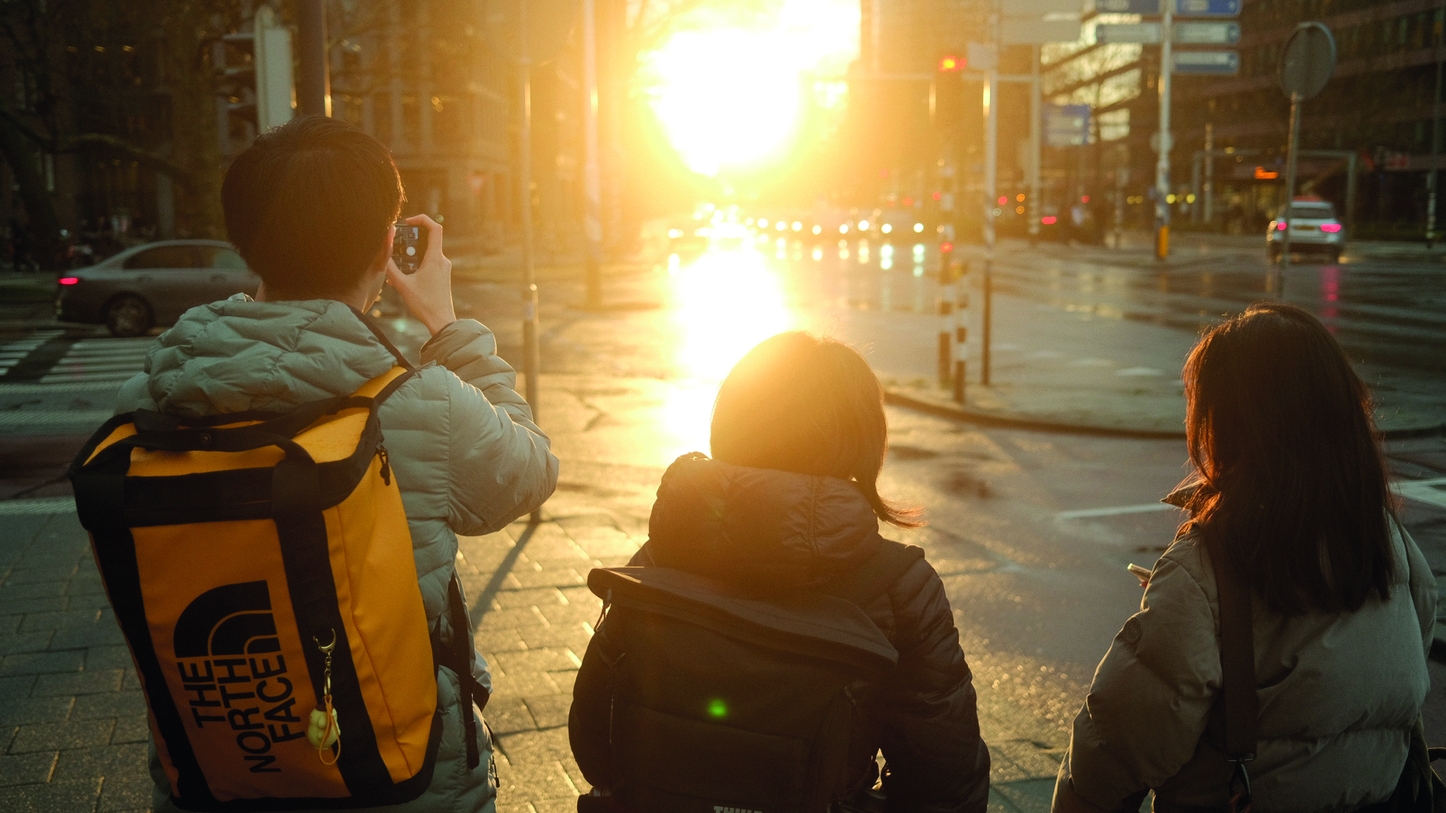
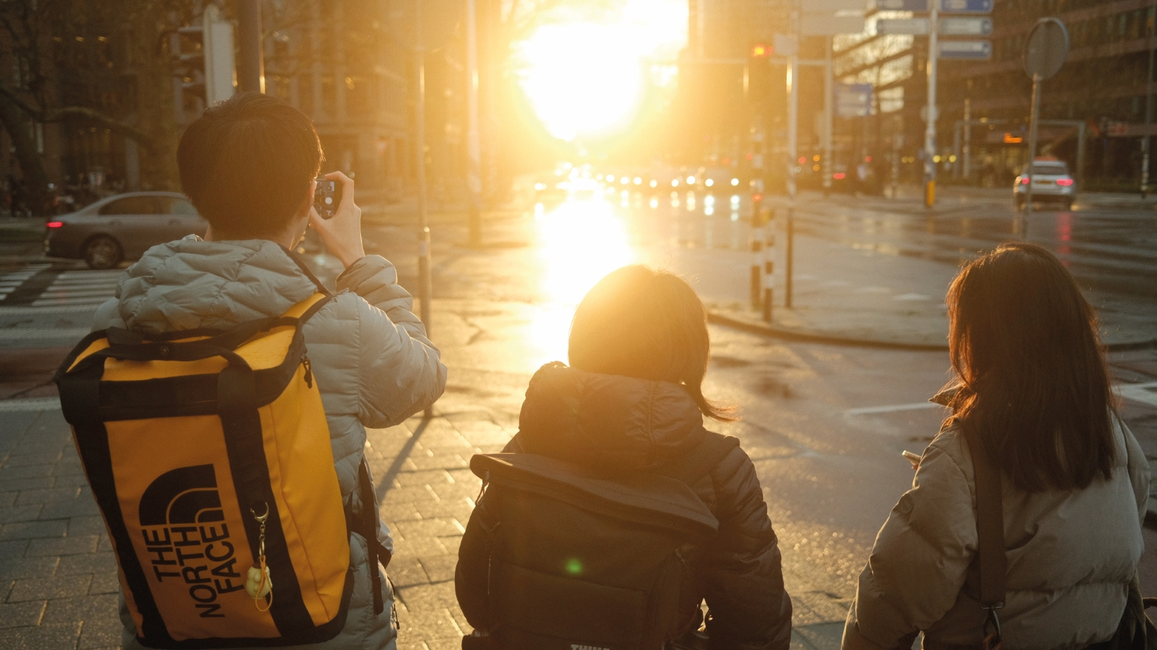
smaller file size for home and direction image

diff --git a/event.html b/event.html
@@ -136,19 +136,25 @@
             </div>
             <div class="flex flex-col gap-12 md:gap-8 xl:gap-12 md:flex-row w-full mx-auto py-4 max-w-7xl fade-in mb-8">
                 <div class="bus-stop flex-1 md:w-[28%] flex flex-col">
-                    <div class="h-auto w-auto bg-blue aspect-1/1 mb-8"></div>
+                    <div class="h-auto w-auto bg-blue aspect-1/1 mb-8">
+                        <img src="./assets/clb.jpg" alt="bus stop 1" class="w-full h-full object-cover">
+                    </div>
                     <p class="text-xl/6 mb-4 lg:text-2xl/6">Ctrl Lib (16181)</p>
                     <p class="text-md/2 mb-4 font-secondary font-medium md:font-light lg:text-lg/8">Buses 95, 151, D1, A1, K, BTC</p> 
                     <p class="text-md/2 font-secondary font-medium md:font-light lg:text-lg/8">Take a walk down the slope and cross the street to SDE4. Walk up the stairs on the left to enter the building.</p> 
                 </div>
                 <div class="bus-stop flex-1 md:w-[28%]">
-                    <div class="h-auto w-auto bg-blue aspect-1/1 mb-8"></div>
+                    <div class="h-auto w-auto bg-blue aspect-1/1 mb-8">
+                        <img src="./assets/aft_archi_drive.png" alt="bus stop 2" class="w-full h-full object-cover">
+                    </div>
                     <p class="text-xl/6 mb-4 lg:text-2xl/6">Aft Architecture Dr (16199)</p>
                     <p class="text-md/2 mb-4 font-secondary font-medium md:font-light lg:text-lg/8">Buses 95, 96, 151</p> 
                     <p class="text-md/2 font-secondary font-medium md:font-light lg:text-lg/8">Take a short walk down the slope to SDE 4. Walk up the stairs to the left to enter the building.</p>
                 </div>
                 <div class="bus-stop flex-1 md:w-[28%]">
-                    <div class="h-auto w-auto bg-blue aspect-1/1 mb-8"></div>
+                    <div class="h-auto w-auto bg-blue aspect-1/1 mb-8">
+                        <img src="./assets/sde3.png" alt="bus stop 3" class="w-full h-full object-cover">
+                    </div>
                     <p class="text-xl/6 mb-4 lg:text-2xl/6">SDE3 (16149)</p>
                     <p class="text-md/2 mb-4 font-secondary font-medium md:font-light lg:text-lg/8">Buses 33, 96, 183, 188, E</p> 
                     <p class="text-md/2 font-secondary font-medium md:font-light lg:text-lg/8">Turn right and walk to the end of the carpark and enter SDE4.</p>

diff --git a/src/data.js b/src/data.js
@@ -914,7 +914,7 @@ const DESIGNER_DATA = [
         "Cluster": "CI",
         "Supervisor": "Hans Tan",
         "MainPic": "./assets/projects/temp-Imagex1m-Rx-W.avif",
-        "Header_1": "What is the future of discovery? \n\n",
+        "Header_1": "What is the future of discovery?",
         "Description_1": "eavesolutions is a speculative brand that reimagines music discovery in a world shaped by personalization and algorithmic recommendations. Each product invites its user to discover songs by exploring the physical world, through imagery, auditory and spatial perception. </p><br><p>Leveraging on the algorithms that already exists, VIS—10M, AUD—24HR, and SPC—10KM re-introduces discovery by turning users into an algorithmic voyeur in the physical world. By integrating current technology with the organic human experience, this project is a reflection of our evolving relationship with technology, probing us to confront our own relationship with discovery, choice, and control.</p><br><p>Through the medium of 3 commercials, this project offers an alternate reality in response to the rising modern problem of algorithmic fatigue. Yet, it simply seeks to remind us to look around, listen, and discover again.</p><br><p>Discover the full project @eavesolutions on instagram.",
         "2nd pic (16:9) Landscape": "",
         "3rd Pic (3:4) Portrait": "",
